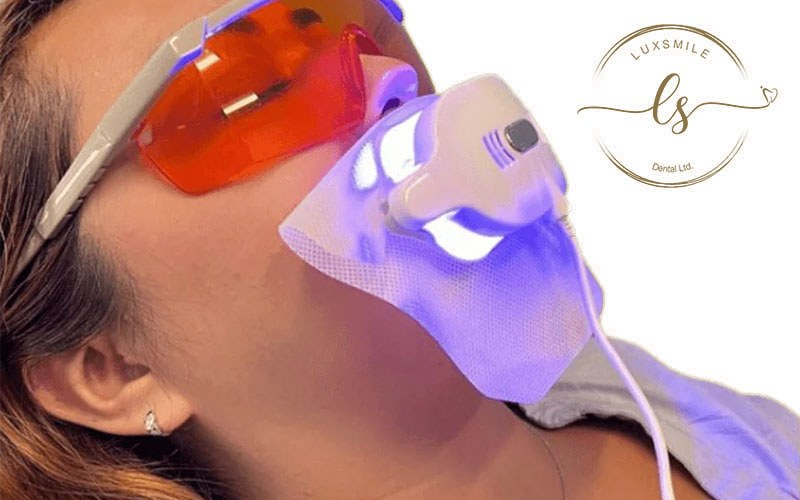
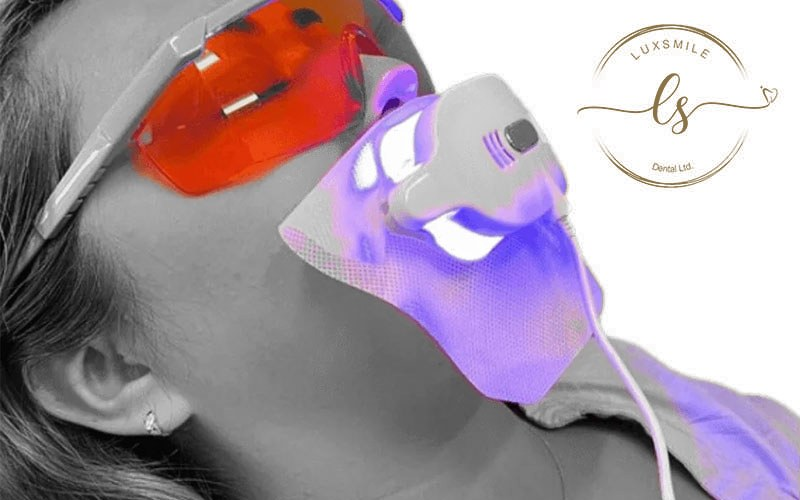
Whitening light photo black and white except glasses and light; lavender footer with white text; eucalyptus booking band

diff --git a/css/service-page.css b/css/service-page.css
@@ -73,7 +73,7 @@ h1, h2, h3 { font-family: 'Playfair Display', serif; }
 
 /* Booking band */
 /* Booking band: photo with dark overlay, like the home page footer */
-.svc-book { position: relative; background: url("../images/toothbrush-spa.jpg") center/cover no-repeat; color: #fff; text-align: center; padding: 80px 20px; }
+.svc-book { position: relative; background: url("../images/bamboo-toothbrushes-eucalyptus.jpg") center/cover no-repeat; color: #fff; text-align: center; padding: 80px 20px; }
 .svc-book::before { content: ""; position: absolute; inset: 0; background: rgba(43,41,37,0.68); }
 .svc-book > * { position: relative; }
 .svc-book h2 { color: #fff; font-size: 34px; font-style: italic; margin-bottom: 10px; }
@@ -91,11 +91,11 @@ h1, h2, h3 { font-family: 'Playfair Display', serif; }
 .svc-note { font-size: 14px; font-style: italic; color: #777; text-align: center; }
 
 /* Footer */
-/* Footer: bamboo toothbrush photo under a soft dark wash, like the booking band */
-.svc-footer { position: relative; background: url("../images/toothbrush-cup-marble.jpg") center 60%/cover no-repeat; color: #f5f0e8; text-align: center; padding: 44px 20px; font-size: 14px; line-height: 2; border-top: 1px solid rgba(204,177,128,0.6); }
+/* Footer: lavender and bamboo toothbrush photo under a soft dark wash, same as the home page footer */
+.svc-footer { position: relative; background: url("../images/toothbrush-spa.jpg") center/cover no-repeat; color: #fff; text-align: center; padding: 44px 20px; font-size: 14px; line-height: 2; border-top: 1px solid rgba(204,177,128,0.6); }
 .svc-footer::before { content: ""; position: absolute; inset: 0; background: rgba(43,41,37,0.55); }
 .svc-footer > * { position: relative; }
-.svc-footer a { color: #e6d3ab; }
+.svc-footer a { color: #fff; }
 
 /* Light hero variant for bright photos (children's page): soft cream wash, dark text */
 .svc-hero.light::before { background: linear-gradient(rgba(255,255,255,0.72), rgba(247,243,236,0.6)); }
